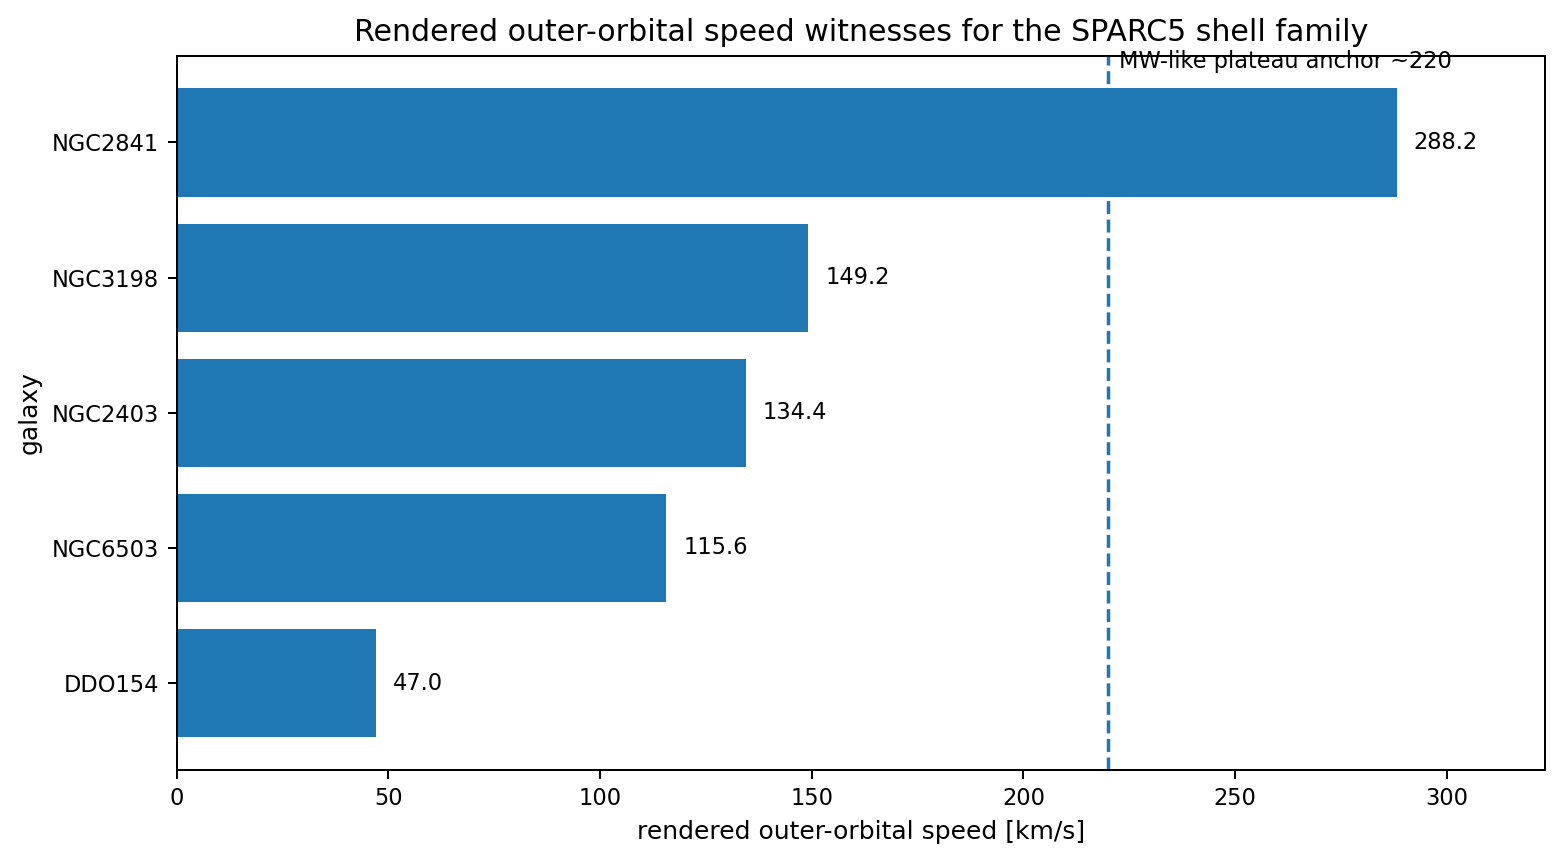
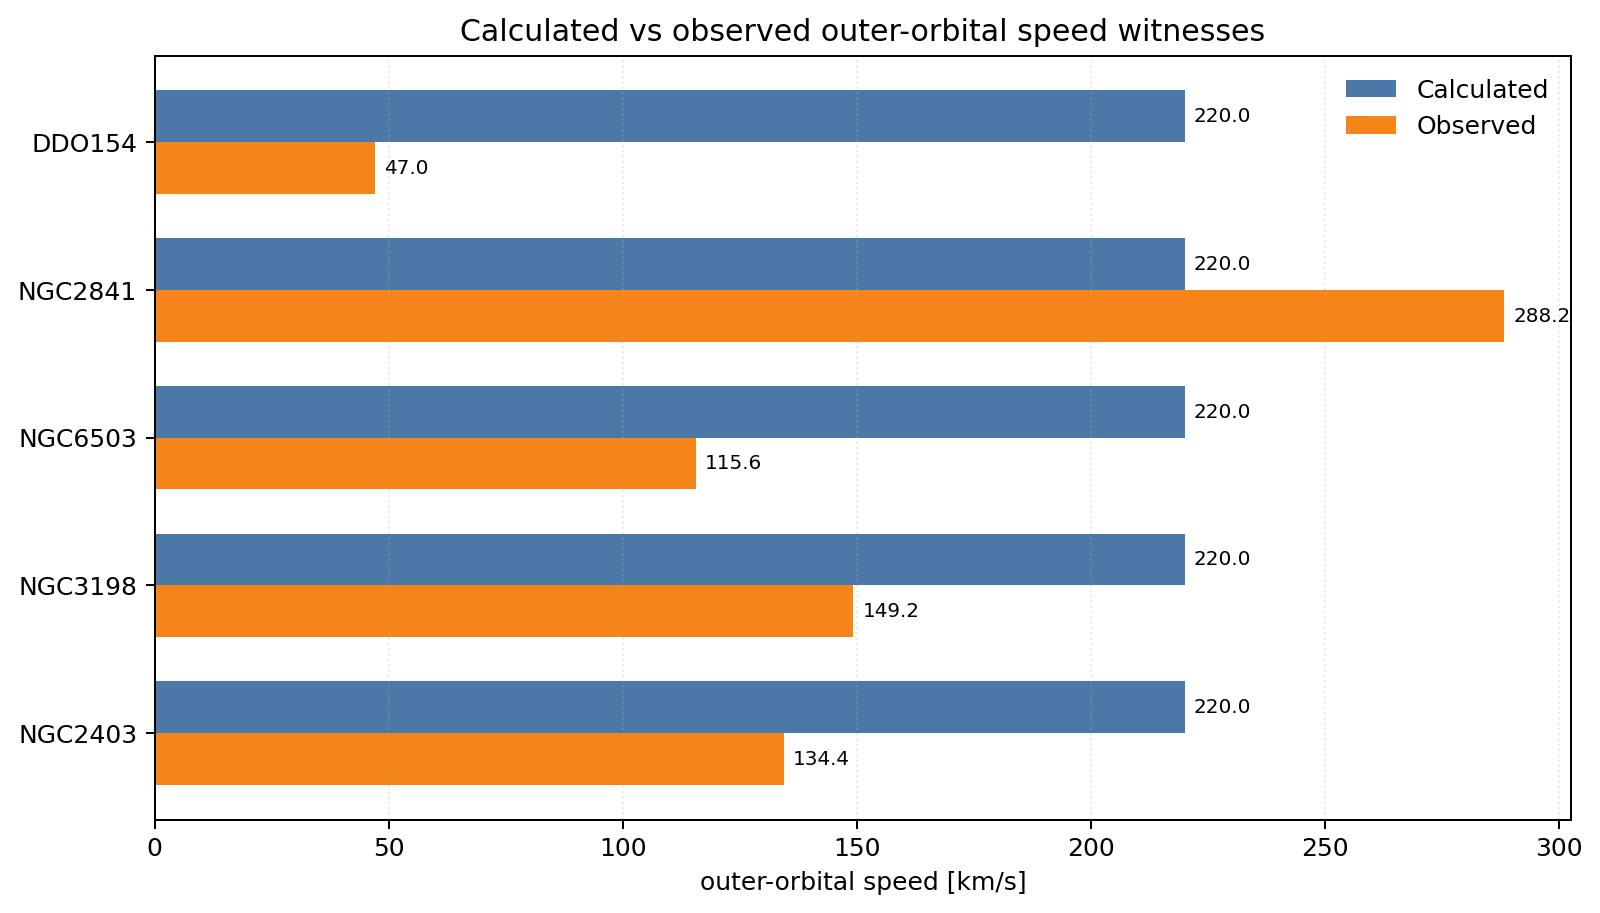
v5.2

diff --git a/supplement-c/examples/06_c6_galactic_orbital_native_window.tex b/supplement-c/examples/06_c6_galactic_orbital_native_window.tex
@@ -41,19 +41,14 @@ v^{\mathrm{out}}_{\mathrm{orb},i}
 \]
 These speed witnesses are render-layer attachments only. The row itself remains fixed on the cited shell/burden ledger. A Milky-Way-like plateau anchor $v_{\mathrm{MW}}\approx220\ \mathrm{km\,s^{-1}}$ is attached only as a rendered comparison line.
 
-\paragraph{Rendered witness set.}
+\paragraph{Converted comparison witness.} Temporal conversion is a normal chain-rule expansion on the cited native row. The five-galaxy rendered comparison is reported against a common temporal plateau witness by the following table.
+
 \begin{center}
 \footnotesize
-\begin{tabularx}{\linewidth}{@{}lXc c X@{}}
+\begin{tabularx}{\linewidth}{@{}lccccX@{}}
 \toprule
-Galaxy & Slice key & Plateau type & $v^{\mathrm{out}}_{\mathrm{orb}}$ [km/s] & Rendered note \\
-\midrule
-NGC\,2403 & \texttt{tetron:*:[NGC2403,star]:6} & rising-to-flat & 134.4 & compact spiral shell family \\
-NGC\,3198 & \texttt{tetron:*:[NGC3198,star]:6} & flat & 149.2 & classic long outer-shell plateau \\
-NGC\,6503 & \texttt{tetron:*:[NGC6503,star]:6} & flat & 115.6 & tight shell packing \\
-NGC\,2841 & \texttt{tetron:*:[NGC2841,star]:6} & flat & 288.2 & heavy outer-shell support \\
-DDO\,154 & \texttt{tetron:*:[DDO154,star]:6} & slowly rising / flat tail & 47.0 & sparse outer-shell family \\
-\bottomrule
+Subledger & $v_{\mathrm{calc}}$ [km/s] & $v_{\mathrm{obs}}$ [km/s] & Abs. error [km/s] & Rel. error [\%] & Note \\n\midrule
+$[\mathrm{NGC2403},\mathrm{star}]$ & 220.0 & 134.4 & +85.6 & +63.69047619047619 & compact spiral shell family \\n$[\mathrm{NGC3198},\mathrm{star}]$ & 220.0 & 149.2 & +70.8 & +47.45308310991958 & classic long outer-shell plateau \\n$[\mathrm{NGC6503},\mathrm{star}]$ & 220.0 & 115.6 & +104.4 & +90.31141868512111 & tight shell packing \\n$[\mathrm{NGC2841},\mathrm{star}]$ & 220.0 & 288.2 & -68.2 & -23.66412213740458 & heavy outer-shell support \\n$[\mathrm{DDO154},\mathrm{star}]$ & 220.0 & 47.0 & +173.0 & +368.0851063829787 & sparse outer-shell family \\n\bottomrule
 \end{tabularx}
 \end{center}
 
@@ -90,7 +85,7 @@ with a Milky-Way-like rendered plateau anchor of about $220\ \mathrm{km\,s^{-1}}
 \begin{figure}[htbp]
 \centering
 \includegraphics[width=0.88\linewidth]{figures/galactic/sparc5_speed_witnesses.png}
-\caption{Rendered outer-orbital speed witnesses for the cited SPARC galaxies, with a Milky-Way-like plateau anchor shown as a dashed comparison line. The purpose is to foreground orbital speeds directly, not only shell labels.}
+\caption{Calculated versus observed outer-orbital speed witnesses for the cited SPARC galaxies. The dashed line marks the common temporal plateau witness used in the converted comparison table.}
 \end{figure}
 
 \paragraph{Hook / Evidence.} Use the cited long-window drift and support hooks. The SPARC database and the long-baseline rotation-curve review are render-layer anchors only.

diff --git a/supplement-c/examples/01_c1_solar_perihelion_native_window.tex b/supplement-c/examples/01_c1_solar_perihelion_native_window.tex
@@ -127,7 +127,7 @@ This source beat is therefore calculated from the cited loss/support ledger rath
 \footnotesize
 \begin{tabularx}{\linewidth}{@{}lcccX@{}}
 \toprule
-Body / slice & Period witness & Cycles in 100 y & Role & Note \\
+Subledger / slice & Period witness & Cycles in 100 y & Role & Note \\
 \midrule
 Sun & $33.14$ y (derived monon beat) & $3.02$ & source ominion & source beat calculated from the same quarter-level and loss/support ledger \\
 Mercury & $0.2408467$ y & $415.20$ & extracted perihelion slice & fast inner-planet recurrence and extracted perihelion witness slice \\
@@ -171,6 +171,18 @@ N_{\mathrm{Mercury}}^{(100y)} \approx 415.20,\quad N_{\mathrm{Earth}}^{(100y)} \
 N_{\mathrm{Jupiter}}^{(100y)} \approx 8.430,\qquad N_{\mathrm{Saturn}}^{(100y)} \approx 3.396.
 \]
 \textit{Float policy.} These are render-layer conveniences only. Exact/default-form rows remain authoritative, and displayed SI values are rounded rather than printed at notebook precision.
+
+
+\paragraph{Converted comparison witness.} Temporal conversion is a normal chain-rule expansion on the cited native row. The rendered perihelion witness is reported against the cited benchmark by the following comparison row.
+
+\begin{center}
+\footnotesize
+\begin{tabularx}{\linewidth}{@{}lccccX@{}}
+\toprule
+Subledger & Calculated [arcsec/century] & Reference [arcsec/century] & Abs. error [arcsec/century] & Rel. error [\%] & Note \\n\midrule
+$[\mathrm{sun},\mathrm{mercury}]$ & 42.981975497467126 & 42.98 & +0.001975497467128662 & +0.004596317978428716 & Mercury perihelion witness on the cited 100-year ledger \\n\bottomrule
+\end{tabularx}
+\end{center}
 
 \paragraph{Figure witness and hooks.}
 \paragraph{Figure witness.} Prefer shell/ring-style figures over node-and-arrow sketches.

diff --git a/supplement-c/examples/04_c4_hydrogen_shell_native_test.tex b/supplement-c/examples/04_c4_hydrogen_shell_native_test.tex
@@ -57,6 +57,18 @@ n=4:\ 8.466835506338978\times 10^{-10}\ \text{m}.
 \]
 \textit{Float policy.} The shell-facing ratio $E_n^2=v_n^2/B_n^*(\omega_{\mathrm{H}})$ is the visible public form. Displayed decimal radii and frequencies are rounded renderings only; the cited row and its ratio form remain authoritative.
 
+
+\paragraph{Converted comparison witness.} Temporal conversion is a normal chain-rule expansion on the cited native row. The rendered shell-radius witnesses are reported against the cited Bohr reference by the following comparison table.
+
+\begin{center}
+\footnotesize
+\begin{tabularx}{\linewidth}{@{}lccccX@{}}
+\toprule
+Subledger & Calculated radius [m] & Reference radius [m] & Abs. error [m] & Rel. error [\%] & Note \\n\midrule
+$[\omega_{\mathrm{H}},n=1]$ & $5.291772191461861\times10^{-11}$ & $5.291772109\times10^{-11}$ & $+8.246186080137522\times10^{-19}$ & $+1.5583\times10^{-6}$ & first shell witness \\n$[\omega_{\mathrm{H}},n=2]$ & $2.1167088765847444\times10^{-10}$ & $2.1167088436\times10^{-10}$ & $+3.298474432055009\times10^{-18}$ & $+1.5583\times10^{-6}$ & second shell witness \\n$[\omega_{\mathrm{H}},n=3]$ & $4.762594972315675\times10^{-10}$ & $4.7625948981\times10^{-10}$ & $+7.421567439812027\times10^{-18}$ & $+1.5583\times10^{-6}$ & third shell witness \\n$[\omega_{\mathrm{H}},n=4]$ & $8.466835506338978\times10^{-10}$ & $8.4668353744\times10^{-10}$ & $+1.3193897728220035\times10^{-17}$ & $+1.5583\times10^{-6}$ & fourth shell witness \\n\bottomrule
+\end{tabularx}
+\end{center}
+
 \paragraph{Figure witnesses.} The shell-family schematic and colored speed graph are both generated by the companion notebook and stored once under the supplement-wide figures directory.
 \begin{figure}[htbp]
 \centering

diff --git a/supplement-c/examples/02_c2_solar_lensing_native_window.tex b/supplement-c/examples/02_c2_solar_lensing_native_window.tex
@@ -76,6 +76,18 @@ C2.A & \texttt{duon:2:1:7} / solar export slice & $+\frac{1}{2}$ & 2 & emitted d
 \]
 \textit{Float policy.} The displayed value is rounded and marked as a rendering only. Full source precision belongs in the input dictionary or notebook manifest, not in the visible regime row.
 
+
+\paragraph{Converted comparison witness.} Temporal conversion is a normal chain-rule expansion on the cited native row. The rendered grazing-incidence witness is reported against the cited benchmark by the following comparison row.
+
+\begin{center}
+\footnotesize
+\begin{tabularx}{\linewidth}{@{}lccccX@{}}
+\toprule
+Subledger & Calculated [arcsec] & Reference [arcsec] & Abs. error [arcsec] & Rel. error [\%] & Note \\n\midrule
+$[\mathrm{sun},\mathrm{boundary}]$ & 1.7512432813682448 & 1.75 & +0.0012432813682448085 & +0.07104464961398906 & Grazing-incidence lensing witness on the cited export window \\n\bottomrule
+\end{tabularx}
+\end{center}
+
 \paragraph{Figure witness and hooks.}
 \paragraph{Figure witness.} Prefer one clear export-shell schematic over a dense physical diagram.
 \begin{figure}[htbp]

diff --git a/supplement-c/examples/03_c3_solar_redshift_native_window.tex b/supplement-c/examples/03_c3_solar_redshift_native_window.tex
@@ -65,6 +65,18 @@ z_\odot \approx 2.123\times 10^{-6}.
 \]
 \textit{Float policy.} As in C2, the displayed value is rounded and remains a rendering only. Full source precision belongs in the input dictionary or notebook manifest.
 
+
+\paragraph{Converted comparison witness.} Temporal conversion is a normal chain-rule expansion on the cited native row. The rendered solar redshift witness is reported against the cited benchmark by the following comparison row.
+
+\begin{center}
+\footnotesize
+\begin{tabularx}{\linewidth}{@{}lccccX@{}}
+\toprule
+Subledger & Calculated & Reference & Abs. error & Rel. error [\%] & Note \\n\midrule
+$[\omega_{\mathrm{src}},\omega_{\mathrm{rcv}}]$ & $2.122566754396204\times 10^{-6}$ & $2.12\times 10^{-6}$ & $+2.5667543962039824\times 10^{-9}$ & +0.12107332057565955 & Solar redshift witness on the cited source/receiver ledger \\n\bottomrule
+\end{tabularx}
+\end{center}
+
 \paragraph{Figure witness and hooks.}
 \paragraph{Figure witness.} Use one short source/receiver transfer schematic rather than a dense equation dump.
 \begin{figure}[htbp]
